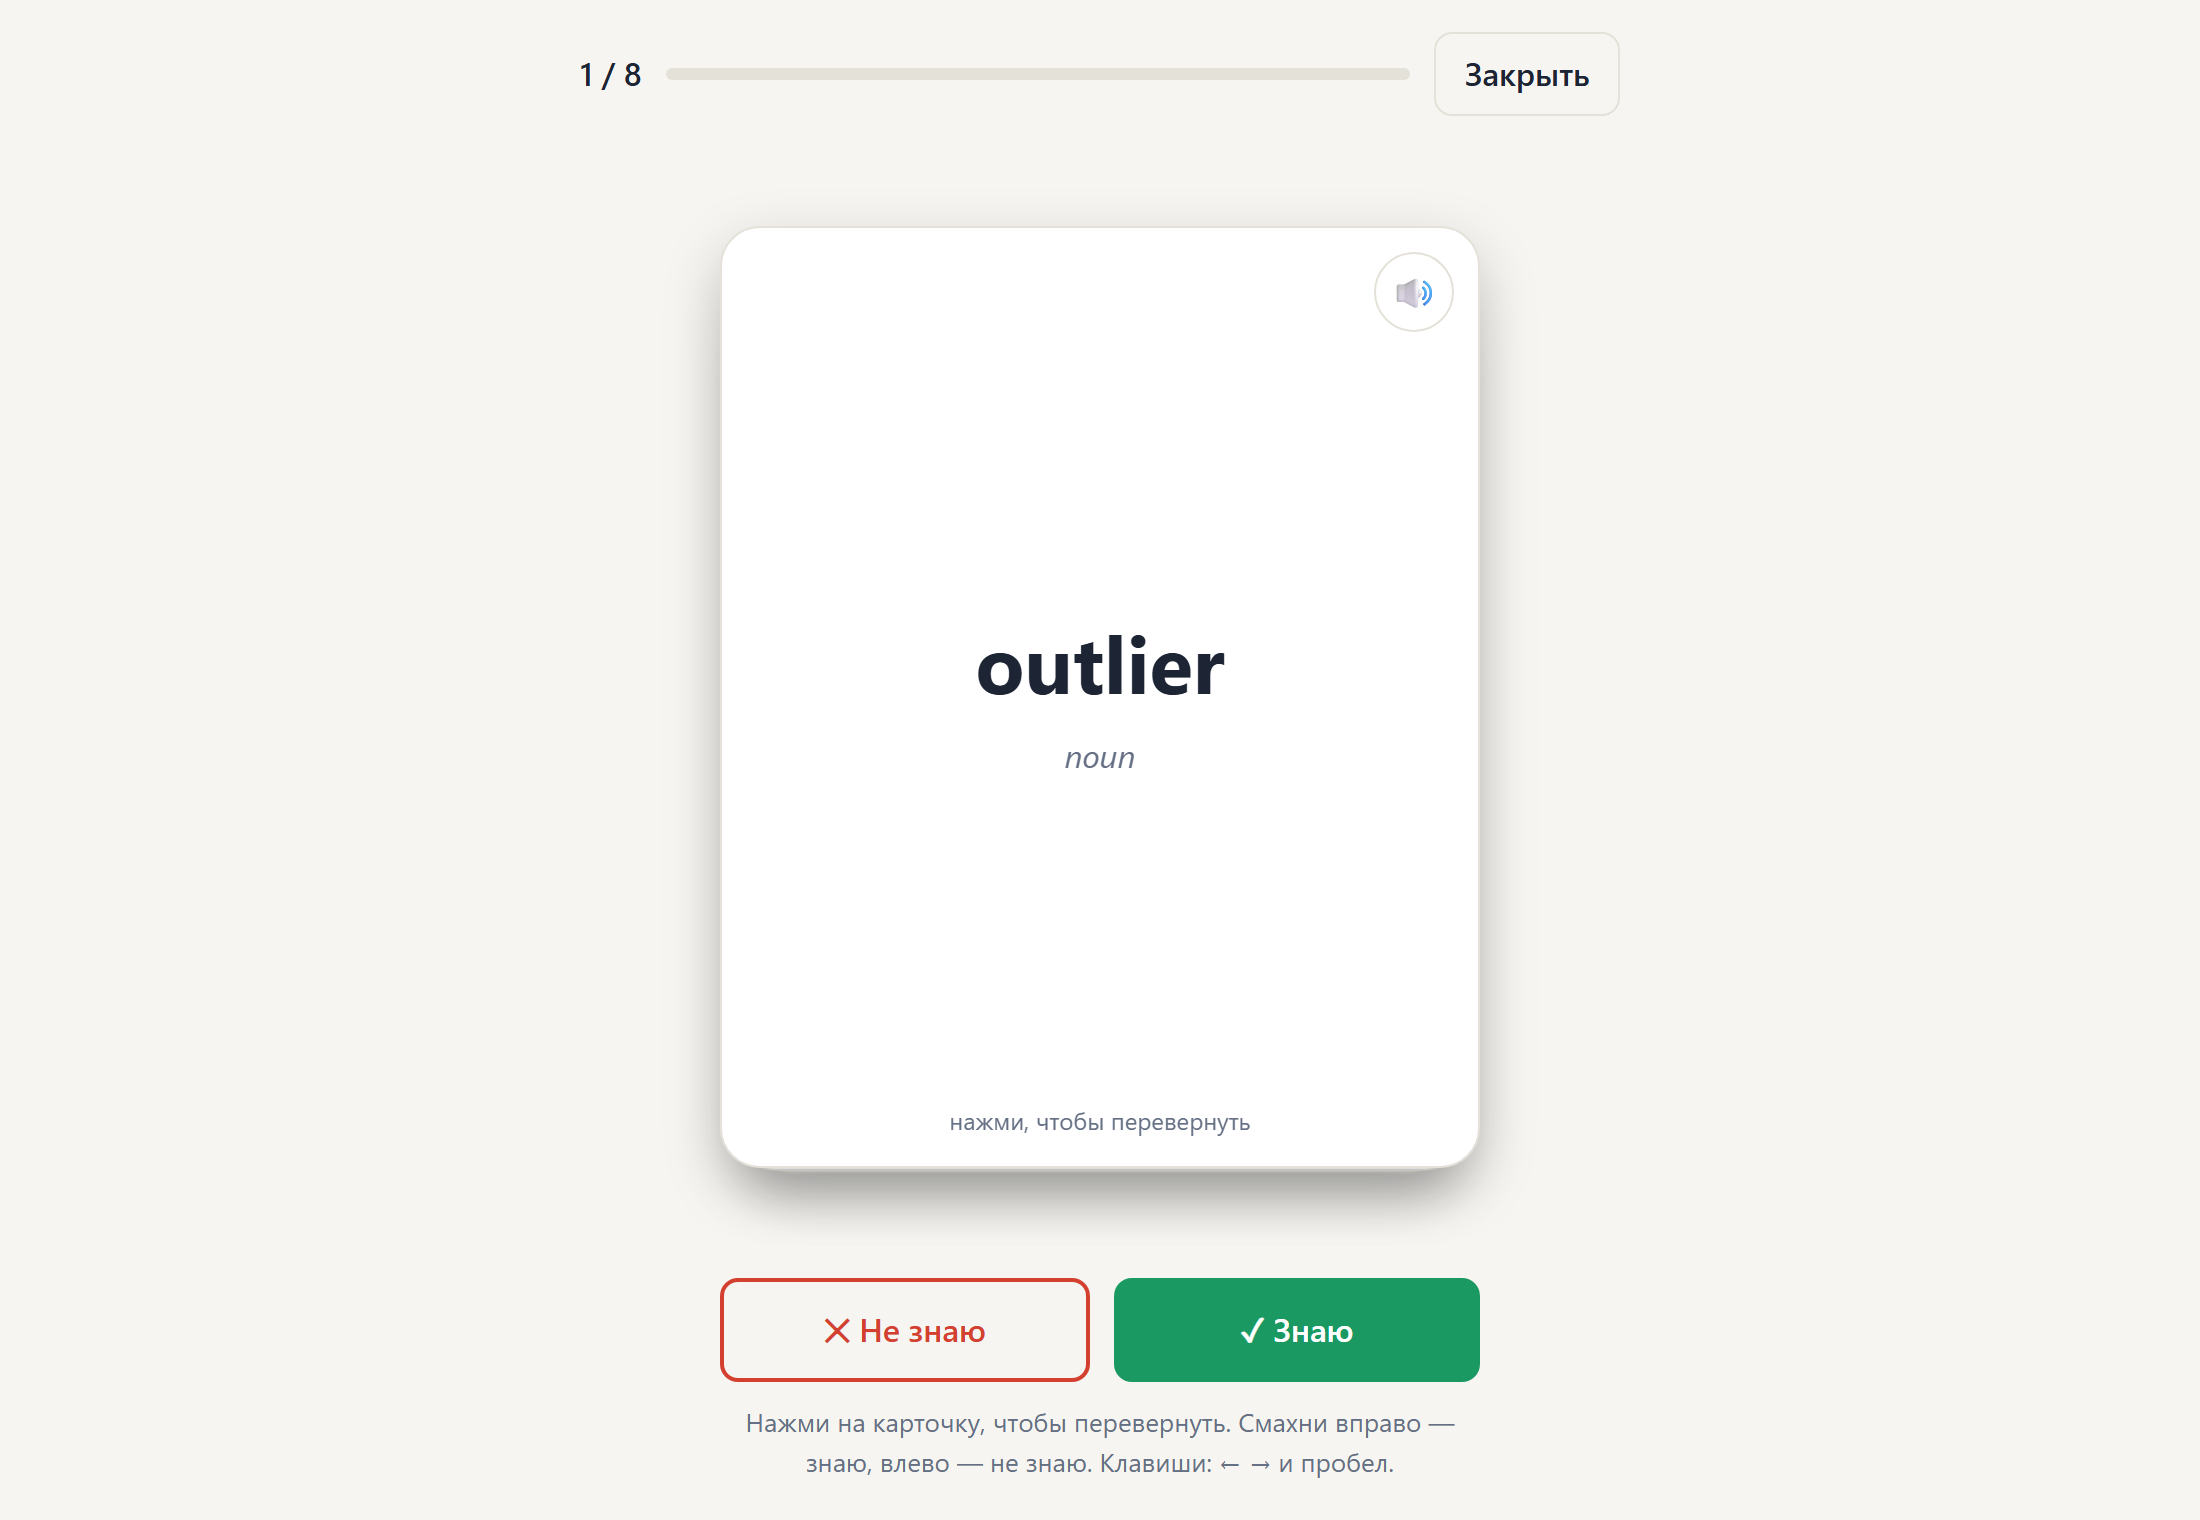
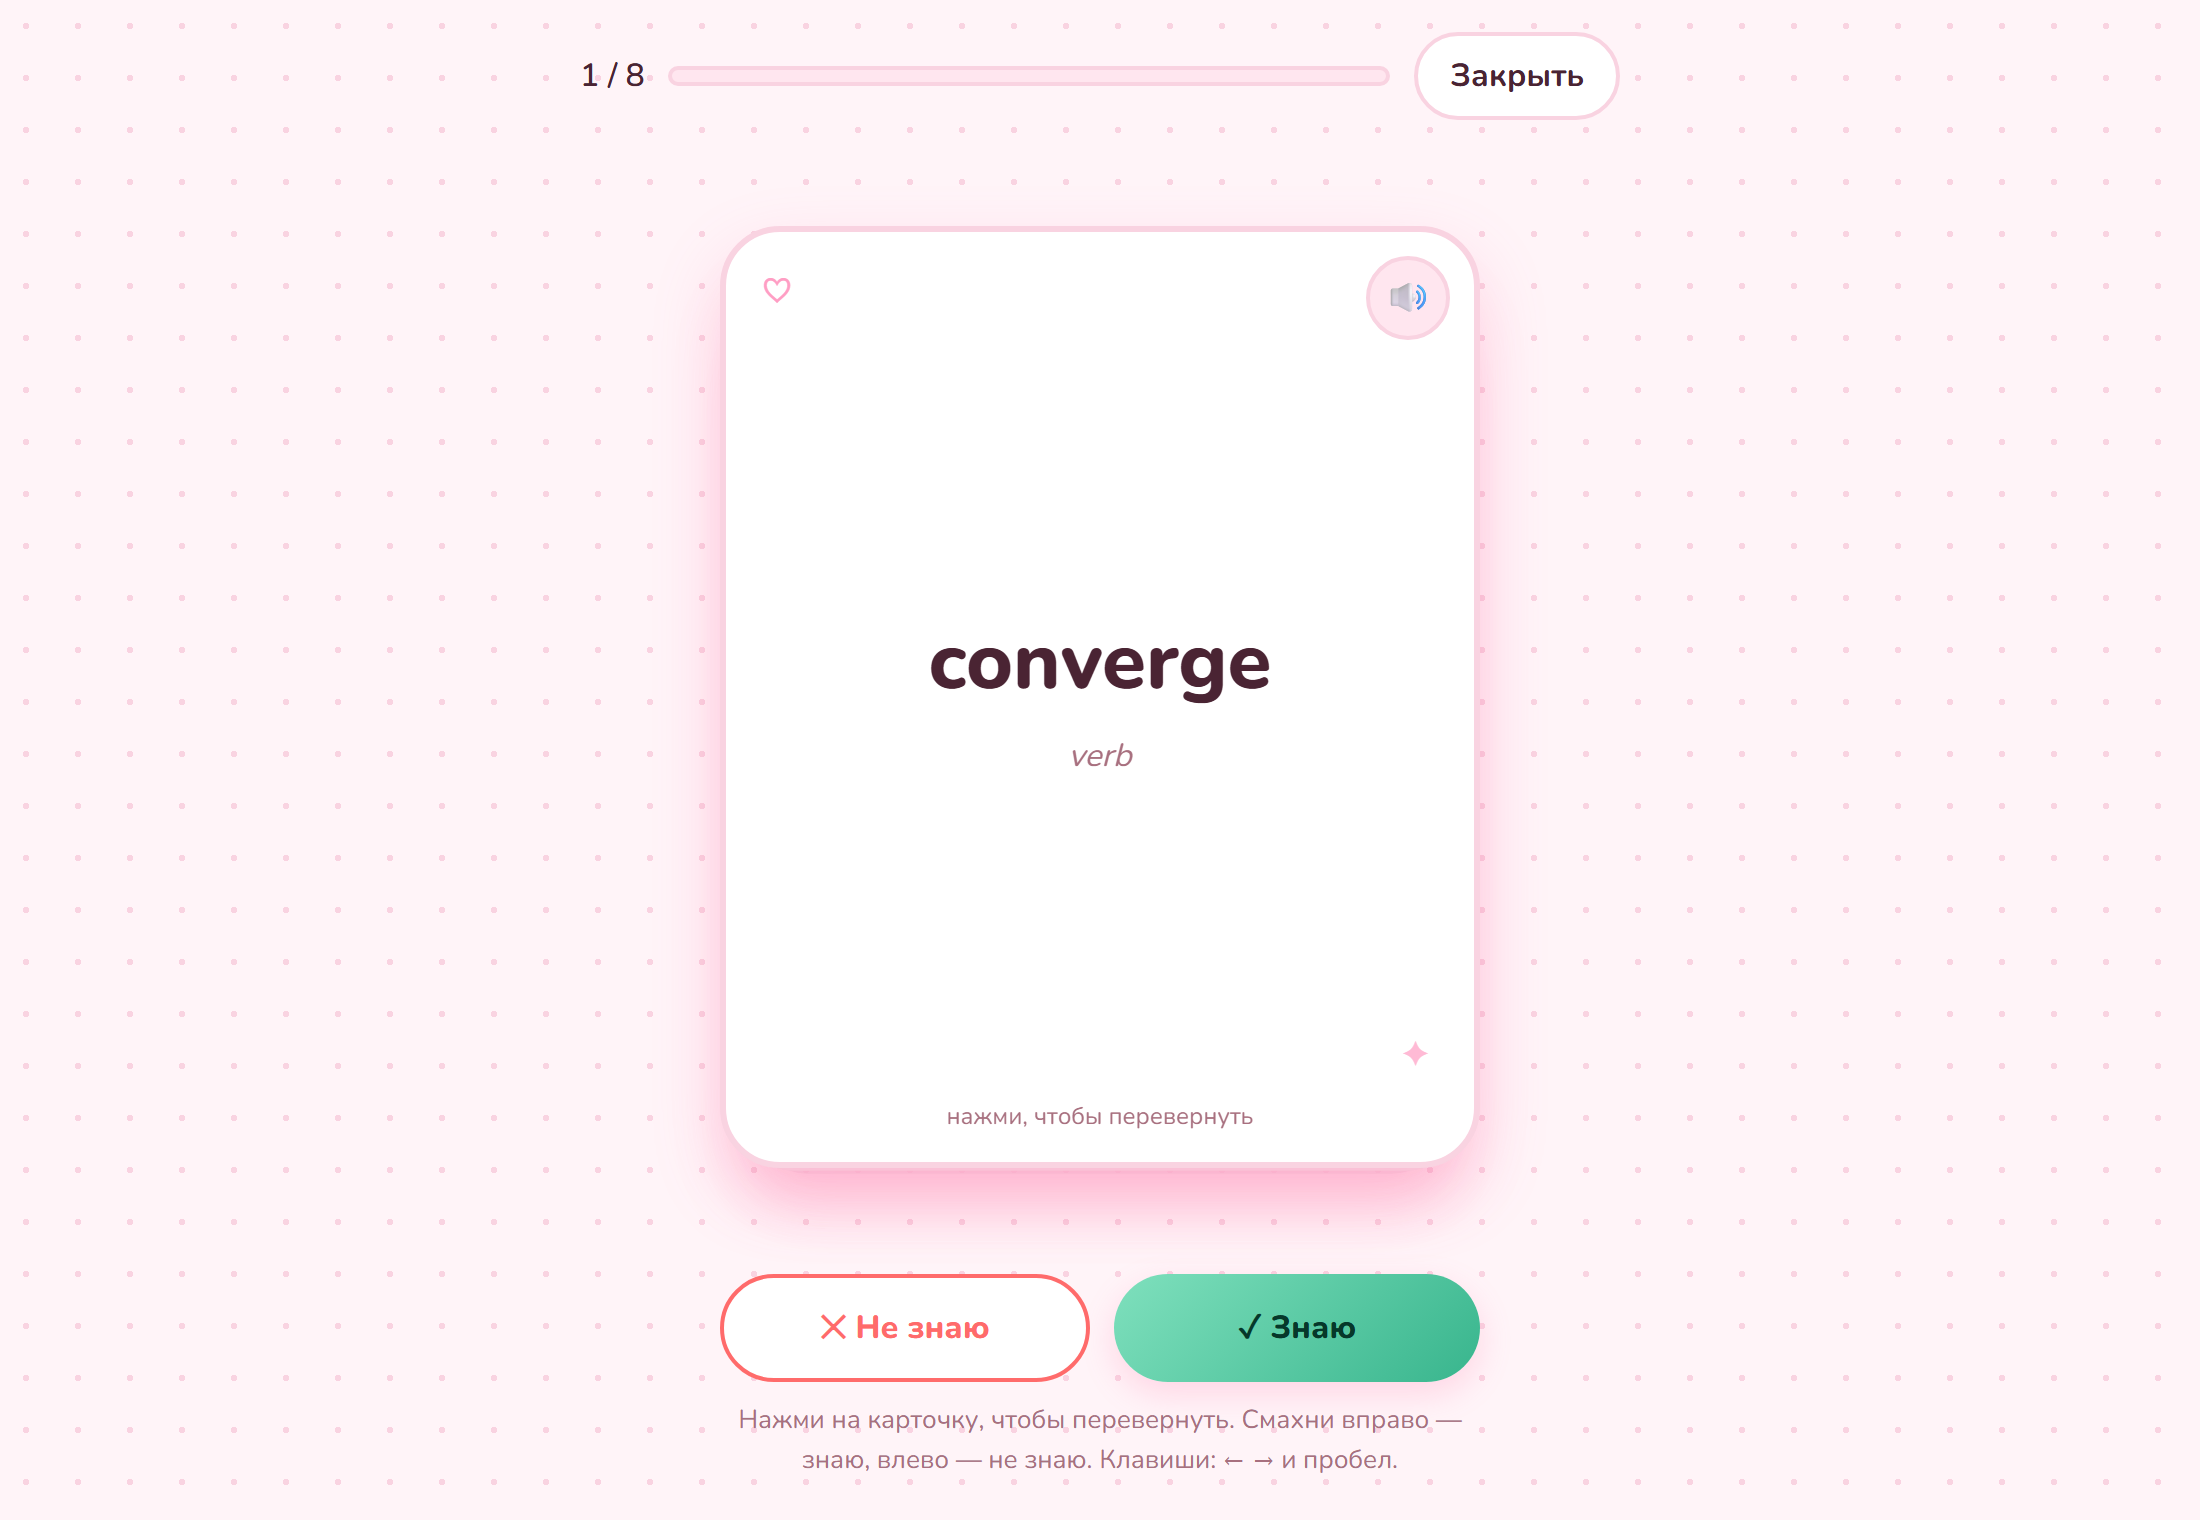
Restyle the site in a pink and white kawaii theme, refresh screenshots

diff --git a/app/static/index.html b/app/static/index.html
@@ -4,32 +4,48 @@
 <meta charset="utf-8">
 <meta name="viewport" content="width=device-width, initial-scale=1">
 <title>Генератор колод</title>
+<link rel="preconnect" href="https://fonts.googleapis.com">
+<link rel="preconnect" href="https://fonts.gstatic.com" crossorigin>
+<link href="https://fonts.googleapis.com/css2?family=Nunito:wght@400;600;700;800&family=Pacifico&display=swap" rel="stylesheet">
 <style>
-  :root { --bg:#f6f5f1; --card:#fff; --ink:#1d2433; --muted:#667085; --line:#e4e1d8; --accent:#1f6f5c; --accent-ink:#fff; --err:#b42318; }
+  :root { --bg:#fff4f8; --card:#ffffff; --ink:#4a2433; --muted:#a8707f; --line:#f9d3e1; --accent:#ff6fa5; --accent2:#ff9ec4;
+          --accent-ink:#ffffff; --err:#d6336c; --soft:#ffe6ef; --shadow:rgba(255,111,165,.22); --mint:#38b58d; --coral:#ff6b6b; }
   @media (prefers-color-scheme: dark) {
-    :root { --bg:#14181f; --card:#1c222c; --ink:#eef1f6; --muted:#9aa4b5; --line:#2c3441; --accent:#4cc3a3; --accent-ink:#0b1713; --err:#ff8a80; }
+    :root { --bg:#2a1520; --card:#3a1d2b; --ink:#ffe8f0; --muted:#e0a9bf; --line:#6a3550; --accent:#ff8fbd; --accent2:#ffb3d1;
+            --accent-ink:#3a0f22; --err:#ff9db8; --soft:#4a2438; --shadow:rgba(0,0,0,.35); --mint:#5fd3a8; --coral:#ff8f8f; }
   }
   * { box-sizing:border-box; }
-  body { margin:0; background:var(--bg); color:var(--ink); font:16px/1.5 system-ui,-apple-system,"Segoe UI",sans-serif; }
+  body { margin:0; color:var(--ink); font:16px/1.5 "Nunito",ui-rounded,"Segoe UI",system-ui,sans-serif;
+         background-color:var(--bg);
+         background-image:radial-gradient(var(--line) 1.6px, transparent 1.7px); background-size:26px 26px; }
   main { max-width:760px; margin:0 auto; padding:32px 16px 64px; }
-  h1 { font-size:26px; margin:0 0 4px; }
-  p.sub { color:var(--muted); margin:0 0 24px; }
-  form, .result { background:var(--card); border:1px solid var(--line); border-radius:14px; padding:20px; }
-  label { display:block; font-size:14px; color:var(--muted); margin:14px 0 6px; }
+  h1 { font:400 clamp(30px,6vw,40px)/1.2 "Pacifico","Nunito",cursive; color:var(--accent); margin:0 0 6px; text-shadow:0 2px 0 var(--soft); }
+  h1::after { content:" ♡"; font-size:.7em; }
+  p.sub { color:var(--muted); margin:0 0 24px; font-weight:600; }
+  form, .result { background:var(--card); border:2px solid var(--line); border-radius:26px; padding:22px;
+                  box-shadow:0 10px 30px var(--shadow); }
+  label { display:block; font-size:14px; font-weight:700; color:var(--muted); margin:14px 0 6px; }
   label:first-child { margin-top:0; }
-  input, select { width:100%; padding:11px 12px; font:inherit; color:var(--ink); background:var(--bg); border:1px solid var(--line); border-radius:9px; }
-  input:focus, select:focus, button:focus-visible, a.dl:focus-visible { outline:2px solid var(--accent); outline-offset:2px; }
+  input, select { width:100%; padding:12px 16px; font:inherit; color:var(--ink); background:var(--bg); border:2px solid var(--line); border-radius:16px; }
+  input::placeholder { color:var(--muted); opacity:.7; }
+  input:focus, select:focus { outline:none; border-color:var(--accent); box-shadow:0 0 0 4px var(--shadow); }
+  button:focus-visible, a.dl:focus-visible { outline:3px solid var(--accent); outline-offset:3px; }
   .row { display:grid; grid-template-columns:1fr 1fr; gap:12px; }
-  button { margin-top:18px; width:100%; padding:12px; font:inherit; font-weight:600; color:var(--accent-ink); background:var(--accent); border:0; border-radius:9px; cursor:pointer; }
+  button { margin-top:18px; width:100%; padding:13px; font:inherit; font-weight:800; color:var(--accent-ink);
+           background:linear-gradient(135deg,var(--accent2),var(--accent)); border:0; border-radius:999px; cursor:pointer;
+           box-shadow:0 6px 16px var(--shadow); transition:transform .15s, box-shadow .15s; }
+  button:hover:not([disabled]) { transform:translateY(-2px); box-shadow:0 10px 22px var(--shadow); }
+  button:active:not([disabled]) { transform:translateY(0); }
   button[disabled] { opacity:.6; cursor:wait; }
-  button.demo { margin-top:10px; background:transparent; color:var(--accent); border:1.5px solid var(--accent); }
-  #status { margin:16px 0 0; min-height:1.4em; color:var(--muted); }
+  button.demo { margin-top:10px; background:transparent; color:var(--accent); border:2px solid var(--accent); box-shadow:none; }
+  #status { margin:16px 0 0; min-height:1.4em; color:var(--muted); font-weight:600; }
   #status.err { color:var(--err); }
-  .result { margin-top:20px; }
-  .result h2 { font-size:18px; margin:0 0 12px; }
+  .result { margin-top:22px; }
+  .result h2 { font:400 22px/1.3 "Pacifico","Nunito",cursive; color:var(--accent); margin:0 0 14px; }
   .downloads { display:flex; flex-wrap:wrap; gap:8px; margin-bottom:16px; }
-  a.dl { padding:8px 12px; border:1px solid var(--line); border-radius:8px; color:var(--ink); text-decoration:none; font-size:14px; }
-  a.dl.primary { background:var(--accent); color:var(--accent-ink); border-color:var(--accent); font-weight:600; }
+  a.dl { padding:8px 16px; border:2px solid var(--line); border-radius:999px; color:var(--ink); text-decoration:none; font-size:14px; font-weight:700; background:var(--card); }
+  a.dl:hover { border-color:var(--accent); }
+  a.dl.primary { background:linear-gradient(135deg,var(--accent2),var(--accent)); color:var(--accent-ink); border-color:transparent; }
   table { width:100%; border-collapse:collapse; font-size:14px; }
   th, td { text-align:left; padding:8px 6px; border-top:1px solid var(--line); vertical-align:top; }
   th { color:var(--muted); font-weight:500; border-top:0; }
@@ -60,14 +76,15 @@
 
   /* --- Режим изучения карточек --- */
   .study-btn { margin:0 0 14px; }
-  #study { position:fixed; inset:0; z-index:15; background:var(--bg); display:none; flex-direction:column; align-items:center;
+  #study { position:fixed; inset:0; z-index:15; background-color:var(--bg);
+           background-image:radial-gradient(var(--line) 1.6px, transparent 1.7px); background-size:26px 26px; display:none; flex-direction:column; align-items:center;
            padding:16px 16px 20px; overflow:hidden; }
   #study.open { display:flex; }
   .study-top { width:100%; max-width:520px; display:flex; justify-content:space-between; align-items:center; gap:12px; }
   #progress { font-weight:600; }
-  .bar { flex:1; height:6px; border-radius:99px; background:var(--line); overflow:hidden; }
-  .bar i { display:block; height:100%; width:0; background:var(--accent); transition:width .3s; }
-  .ghost { margin:0; width:auto; padding:8px 14px; background:transparent; color:var(--ink); border:1px solid var(--line); font-weight:500; }
+  .bar { flex:1; height:10px; border-radius:99px; background:var(--soft); border:2px solid var(--line); overflow:hidden; }
+  .bar i { display:block; height:100%; width:0; background:linear-gradient(90deg,var(--accent2),var(--accent)); border-radius:99px; transition:width .3s; }
+  .ghost { margin:0; width:auto; padding:8px 16px; background:var(--card); color:var(--ink); border:2px solid var(--line); font-weight:700; box-shadow:none; }
   .deck { position:relative; flex:1; width:100%; max-width:520px; display:grid; place-items:center; min-height:0; }
   .scard { position:absolute; width:min(88vw,380px); height:min(62vh,500px); touch-action:none; user-select:none; -webkit-user-select:none;
            transition:transform .28s ease, opacity .28s; will-change:transform; cursor:grab; }
@@ -77,25 +94,27 @@
   .sflip { position:absolute; inset:0; transform-style:preserve-3d; transition:transform .45s cubic-bezier(.3,.7,.2,1); }
   .scard.flipped .sflip { transform:rotateY(180deg); }
   .sface { position:absolute; inset:0; backface-visibility:hidden; -webkit-backface-visibility:hidden; background:var(--card);
-           border:1px solid var(--line); border-radius:20px; box-shadow:0 10px 30px rgba(0,0,0,.18); padding:26px 22px;
+           border:3px solid var(--line); border-radius:30px; box-shadow:0 14px 34px var(--shadow); padding:26px 22px;
            display:flex; flex-direction:column; align-items:center; justify-content:center; text-align:center; gap:12px; overflow:auto; }
   .sface.sback { transform:rotateY(180deg); }
-  .sword { font-size:clamp(28px,8vw,40px); font-weight:700; line-height:1.15; overflow-wrap:anywhere; }
+  .sface.sfront::before { content:"♡"; position:absolute; top:14px; left:18px; font-size:22px; color:var(--accent2); }
+  .sface.sfront::after { content:"✦"; position:absolute; bottom:40px; right:22px; font-size:18px; color:var(--accent2); opacity:.7; }
+  .sword { font-size:clamp(28px,8vw,40px); font-weight:800; line-height:1.15; overflow-wrap:anywhere; color:var(--ink); }
   .spos { color:var(--muted); font-style:italic; }
-  .strans { font-size:clamp(26px,7vw,36px); font-weight:700; color:var(--accent); overflow-wrap:anywhere; }
+  .strans { font-size:clamp(26px,7vw,36px); font-weight:800; color:var(--accent); overflow-wrap:anywhere; }
   .sdef { font-size:16px; }
   .sex { font-size:15px; color:var(--muted); font-style:italic; }
   .shint { position:absolute; bottom:14px; font-size:12px; color:var(--muted); }
-  .speak { position:absolute; top:12px; right:12px; margin:0; width:40px; height:40px; padding:0; border-radius:50%;
-           background:transparent; color:var(--ink); border:1px solid var(--line); font-size:18px; }
+  .speak { position:absolute; top:12px; right:12px; margin:0; width:42px; height:42px; padding:0; border-radius:50%;
+           background:var(--soft); color:var(--ink); border:2px solid var(--line); font-size:18px; box-shadow:none; }
   .stamp { position:absolute; top:22px; padding:6px 14px; border:3px solid; border-radius:10px; font-weight:800; font-size:22px;
            letter-spacing:1px; opacity:0; pointer-events:none; z-index:2; }
-  .stamp.yes { left:20px; color:#1a9a62; transform:rotate(-12deg); }
-  .stamp.no { right:20px; color:#d4402f; transform:rotate(12deg); }
+  .stamp.yes { left:20px; color:var(--mint); transform:rotate(-12deg); }
+  .stamp.no { right:20px; color:var(--coral); transform:rotate(12deg); }
   .study-actions { display:flex; gap:12px; width:100%; max-width:380px; }
   .study-actions button { margin:0; }
-  .btn-no { background:transparent; color:#d4402f; border:2px solid #d4402f; }
-  .btn-yes { background:#1a9a62; color:#fff; }
+  .btn-no { background:var(--card); color:var(--coral); border:2px solid var(--coral); box-shadow:none; }
+  .btn-yes { background:linear-gradient(135deg,#7fe0bd,var(--mint)); color:#06382a; }
   .study-hint { margin:10px 0 0; font-size:13px; color:var(--muted); text-align:center; max-width:380px; }
   .summary { text-align:center; display:grid; gap:10px; justify-items:center; }
   .summary h3 { margin:0; font-size:26px; }
@@ -114,7 +133,7 @@
   <header>
     <div>
       <h1>Колода слов из статьи</h1>
-      <p class="sub">Вставь ссылку на англоязычную статью. Получишь слова B2/C1 для Anki и Quizlet.</p>
+      <p class="sub">Вставь ссылку на статью, и я соберу милые карточки B2/C1 ✨</p>
     </div>
     <button class="ace-btn" id="ace" type="button" aria-label="Туз пик">
       <svg viewBox="0 0 70 98" aria-hidden="true">
@@ -173,8 +192,9 @@
                 <path d="M0 8L8 0L16 8L8 16Z" fill="none" stroke="#fff" stroke-opacity=".35"/>
               </pattern>
             </defs>
-            <rect width="250" height="350" fill="#1f6f5c"/>
-            <rect x="14" y="14" width="222" height="322" rx="8" fill="url(#bk)" stroke="#fff" stroke-opacity=".6"/>
+            <rect width="250" height="350" fill="#ff7fb2"/>
+            <rect x="14" y="14" width="222" height="322" rx="14" fill="url(#bk)" stroke="#fff" stroke-opacity=".8" stroke-width="2"/>
+            <text x="125" y="188" text-anchor="middle" font-size="64" fill="#fff" fill-opacity=".9">♡</text>
           </svg>
         </div>
       </div>
